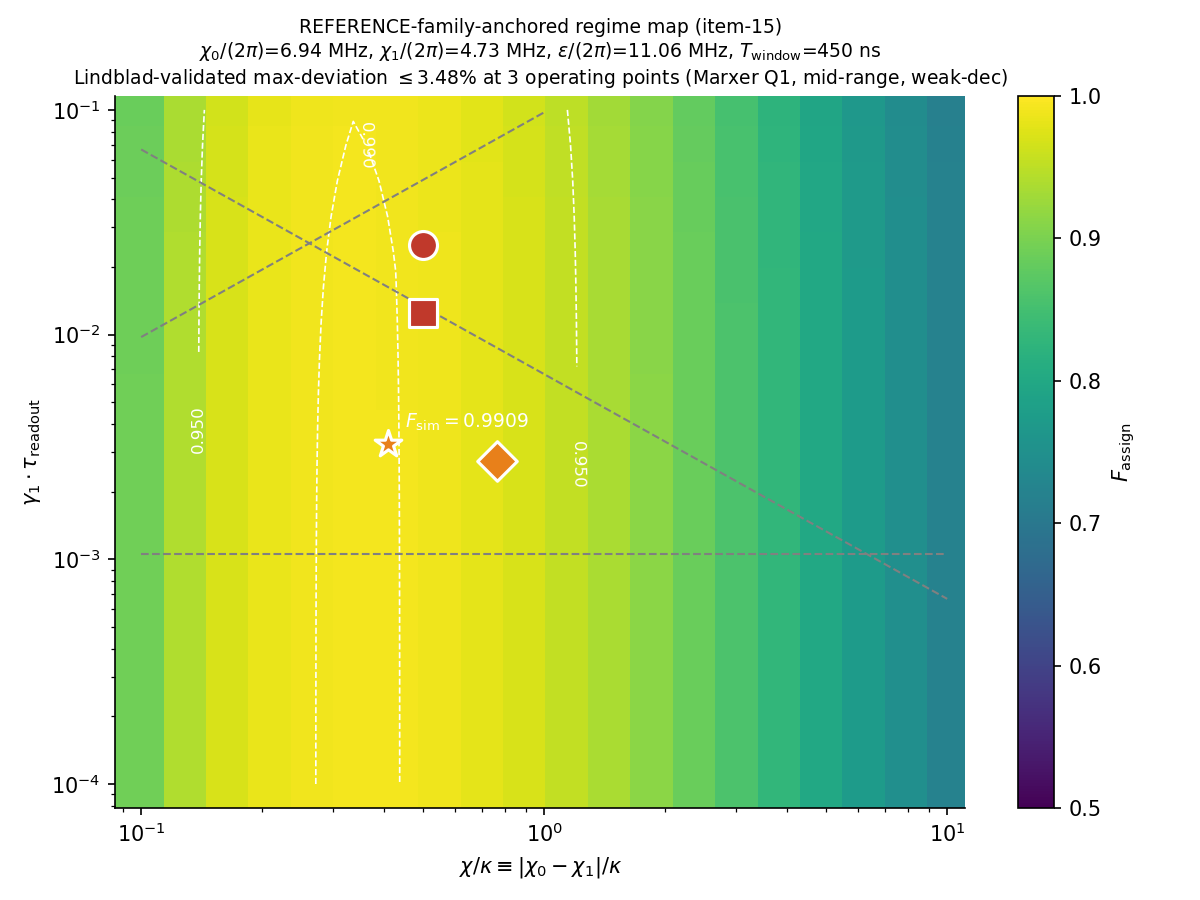
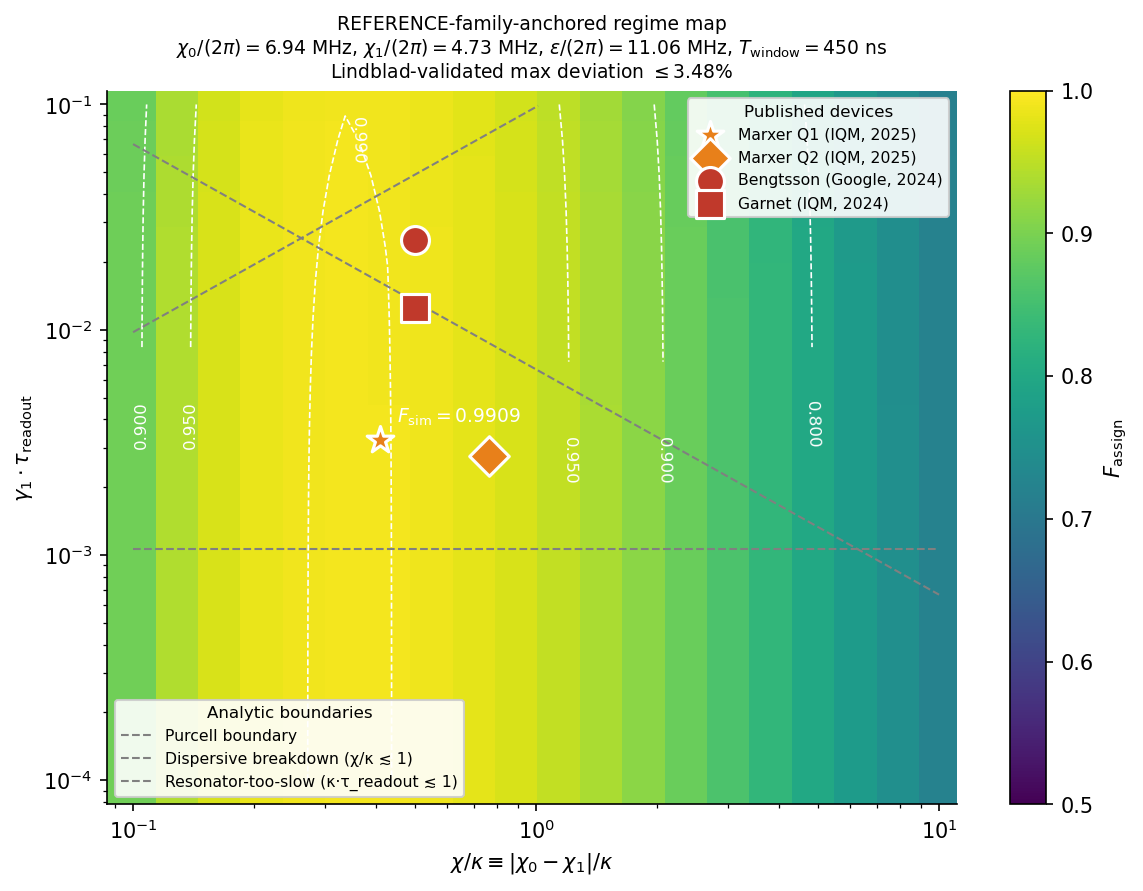
polish(stage06-m4): Figure 4 panels a/b/c external-reviewer feedback round
External reviewer critique surfaced 3 distinct presentation issues, one
per panel. All three fixed without changing underlying data or
computation — rendering layer only.

Panel (a) tornado — sign contrast + consistent annotation + label cleanup:
  - Pos/neg colors: two-shade cool palette (#4A90E2/#2E6DA4) read as one
    color to reviewers; swapped negative to orange-red (#D35400). χ_scale
    (the only negative bar-rendered parameter) now reads instantly as
    negative-sign rather than requiring a re-read of the numeric.
  - χ label "χ (via chi_scale, ±5%)" → "χ scale (±5%)" per reviewer.
  - Dropped fontweight="bold" on bar-rendered annotation so ε_0's "+0.050"
    label no longer visually dominates the other parameters' annotations.
  - Gray band retained (noise-consistent zone meaning); explanation moves
    to caption rather than in-plot text to keep panel uncluttered.

Panel (b) regime map — marker legend + boundary labels + tighter title:
  - Added two axis-level legends: "Published devices" (upper-right) maps
    marker shape → citation anchor (Marxer Q1/Q2, Bengtsson, Garnet);
    "Analytic boundaries" (lower-left) maps dashed-line family → physical
    meaning (Purcell / dispersive breakdown / resonator-too-slow). Reader
    no longer has to consult caption to identify markers or boundaries.
  - Title shortened: "REFERENCE-family-anchored regime map" on line 1;
    anchoring params (χ_0, χ_1, ε, T_window) and Lindblad-validated
[…]

diff --git a/06_Dispersive_Readout/scripts/fig4_panel_c_pareto.py b/06_Dispersive_Readout/scripts/fig4_panel_c_pareto.py
@@ -24,29 +24,75 @@ from dispersive_readout.optimization.pareto import (
 )
 
 
+# Three distinct styles (color + linestyle + marker) so variants are
+# legible at a glance — prior 3-greys palette blurred them together per
+# external reviewer feedback.
 _VARIANT_STYLES = {
-    "REFERENCE (≈ Marxer Q1)":                  {"color": "#2C3E50", "marker": "o"},
-    "T_1 = 40 µs (Garnet-like)":                 {"color": "#7F8C8D", "marker": "s"},
-    "T_1 = 20 µs, κ/2π = 6 MHz (Bengtsson-like)": {"color": "#566573", "marker": "^"},
+    "REFERENCE (≈ Marxer Q1)":                   {"color": "#1F3A5F", "marker": "o", "ls": "-"},
+    "T_1 = 40 µs (Garnet-like)":                  {"color": "#E8801A", "marker": "s", "ls": "--"},
+    "T_1 = 20 µs, κ/2π = 6 MHz (Bengtsson-like)": {"color": "#2E7D32", "marker": "^", "ls": "-."},
 }
+
+
+def _find_reference_knee(points: list) -> tuple[float, float] | None:
+    """Anchor annotation for the REFERENCE curve: the last τ at which F gains
+    ≥ 0.03 over the previous τ_max grid point. Past this knee, each further
+    doubling of τ buys only diminishing fidelity, which is the practical
+    "done" point for an operator budgeting readout time."""
+    if len(points) < 2:
+        return None
+    # Sort by tau_opt just in case input ordering isn't guaranteed.
+    pts = sorted(points, key=lambda p: p.tau_opt)
+    best_idx = 0
+    for i in range(1, len(pts)):
+        if pts[i].F_assign_opt - pts[i - 1].F_assign_opt >= 0.03:
+            best_idx = i
+    return (pts[best_idx].tau_opt * 1e9, pts[best_idx].F_assign_opt)
 
 
 def render_pareto(ax: plt.Axes, frontiers: dict[str, list]) -> None:
     for label, points in frontiers.items():
-        style = _VARIANT_STYLES.get(label, {"color": "black", "marker": "o"})
+        style = _VARIANT_STYLES.get(label, {"color": "black", "marker": "o", "ls": "-"})
         tau_ns = [p.tau_opt * 1e9 for p in points]
         F = np.array([p.F_assign_opt for p in points])
         sigma = np.array([p.F_assign_uncertainty for p in points])
 
         ax.fill_between(tau_ns, F - sigma, F + sigma, color=style["color"], alpha=0.15)
-        ax.plot(tau_ns, F, color=style["color"], linestyle="-", linewidth=1.2)
-        ax.scatter(tau_ns, F, marker=style["marker"], s=36, color=style["color"],
+        ax.plot(tau_ns, F, color=style["color"], linestyle=style["ls"], linewidth=1.4)
+        ax.scatter(tau_ns, F, marker=style["marker"], s=42, color=style["color"],
                    edgecolors="white", linewidths=0.8, label=label, zorder=5)
+
+    # Anchor annotation on the REFERENCE curve: show the practical knee
+    # point (last big-gain step). Makes one concrete operating point visible
+    # on the plot itself — pairs this panel to Module 2 / Module 4's
+    # REFERENCE working point without forcing the reader to scan the legend.
+    ref_points = frontiers.get("REFERENCE (≈ Marxer Q1)")
+    if ref_points:
+        knee = _find_reference_knee(ref_points)
+        if knee is not None:
+            tau_knee, F_knee = knee
+            ax.annotate(
+                rf"REFERENCE knee: $\tau={tau_knee:.0f}$ ns, $F={F_knee:.3f}$",
+                xy=(tau_knee, F_knee), xycoords="data",
+                xytext=(12, -28), textcoords="offset points",
+                fontsize=8.5, color="#1F3A5F",
+                arrowprops=dict(arrowstyle="->", color="#1F3A5F", lw=0.8),
+                bbox=dict(boxstyle="round,pad=0.3", facecolor="white",
+                          edgecolor="#1F3A5F", alpha=0.85),
+            )
 
     ax.set_xscale("log")
     ax.set_xlabel(r"Readout duration $\tau_{\rm opt}$ (ns, log)")
     ax.set_ylabel(r"$F_{\rm assign}$ at optimum")
-    ax.set_title("Speed–fidelity Pareto frontier")
+    # Subtitle names the objective so an external reader knows what the
+    # frontier is a frontier OF.
+    ax.set_title(
+        "Speed–fidelity Pareto frontier\n"
+        r"maximize $F_{\rm assign}$ over $(\varepsilon_0, \tau)$ subject to "
+        r"$\tau \leq \tau_{\rm max}$; shaded = analytic binomial SE "
+        r"at $n_{\rm shots}=10^4$",
+        fontsize=10,
+    )
     ax.legend(loc="lower right", fontsize=9)
     ax.spines["top"].set_visible(False); ax.spines["right"].set_visible(False)
 
@@ -122,27 +168,52 @@ def _collect_frontiers_serial() -> dict[str, list[ParetoPoint]]:
     return frontiers
 
 
+def _load_frontiers_from_yaml(path: Path) -> dict[str, list[ParetoPoint]]:
+    """Re-hydrate ParetoPoint records from a previously-persisted yaml.
+    Skips the expensive Pareto re-computation when only the rendering
+    layer (styles, annotations, title) changed."""
+    with open(path) as f:
+        raw = yaml.safe_load(f)
+    out: dict[str, list[ParetoPoint]] = {}
+    for label, records in raw.items():
+        out[label] = [ParetoPoint(**r) for r in records]
+    return out
+
+
 def main() -> None:
-    use_modal = os.environ.get("USE_MODAL", "0") == "1"
-    if use_modal:
+    use_modal  = os.environ.get("USE_MODAL",  "0") == "1"
+    use_cached = os.environ.get("USE_CACHED", "0") == "1"
+
+    out_dir = Path("06_Dispersive_Readout/figures")
+    yaml_path = out_dir / "fig4_panel_c_data.yaml"
+
+    if use_cached:
+        if not yaml_path.exists():
+            raise FileNotFoundError(
+                f"USE_CACHED=1 but {yaml_path} does not exist; "
+                "run once without USE_CACHED to generate the Pareto data."
+            )
+        frontiers = _load_frontiers_from_yaml(yaml_path)
+    elif use_modal:
         frontiers = _collect_frontiers_modal()
     else:
         frontiers = _collect_frontiers_serial()
 
-    # Persist YAML (skip empty variants — would produce malformed plot)
-    out_dir = Path("06_Dispersive_Readout/figures")
+    # Persist YAML on re-compute paths (skip on cache-read since we just
+    # loaded from it; rewriting with identical content is noise)
     out_dir.mkdir(parents=True, exist_ok=True)
-    serializable = {
-        label: [p.model_dump() for p in points]
-        for label, points in frontiers.items() if points
-    }
-    with open(out_dir / "fig4_panel_c_data.yaml", "w") as f:
-        yaml.safe_dump(serializable, f, sort_keys=False)
+    if not use_cached:
+        serializable = {
+            label: [p.model_dump() for p in points]
+            for label, points in frontiers.items() if points
+        }
+        with open(yaml_path, "w") as f:
+            yaml.safe_dump(serializable, f, sort_keys=False)
 
     fig, ax = plt.subplots(figsize=(8, 5.5))
     render_pareto(ax, {k: v for k, v in frontiers.items() if v})
     fig.tight_layout()
-    fig.savefig(out_dir / "fig4_panel_c_pareto.png", dpi=150)
+    fig.savefig(out_dir / "fig4_panel_c_pareto.png", dpi=150, bbox_inches="tight")
     print(f"Wrote {out_dir / 'fig4_panel_c_pareto.png'}")
 
 

diff --git a/06_Dispersive_Readout/scripts/fig4_panel_b_regime.py b/06_Dispersive_Readout/scripts/fig4_panel_b_regime.py
@@ -34,6 +34,14 @@ from dispersive_readout.optimization.regime_map import (
 
 _MARKER_COLOR_MAP = {"warm_orange": "#E8801A", "red": "#C0392B"}
 
+# Boundary-line labels for the legend. Each function is called once inside
+# render_regime_map; the label string matches the caption phrasing.
+_BOUNDARY_LABELS = {
+    "purcell":   "Purcell boundary",
+    "breakdown": "Dispersive breakdown (χ/κ ≲ 1)",
+    "slow":      "Resonator-too-slow (κ·τ_readout ≲ 1)",
+}
+
 
 def render_regime_map(ax: plt.Axes, validation: dict, grid: dict) -> None:
     x_axis = grid["chi_over_kappa_axis"]
@@ -44,30 +52,39 @@ def render_regime_map(ax: plt.Axes, validation: dict, grid: dict) -> None:
     pcm = ax.pcolormesh(X, Y, F, cmap="viridis", shading="auto", vmin=0.5, vmax=1.0)
     plt.colorbar(pcm, ax=ax, label=r"$F_{\rm assign}$")
 
+    # Denser contour set reveals more structure in the 0.8-1.0 regime where
+    # most of the interesting physics sits; 0.5/0.7 anchor the low-F corners.
     cs = ax.contour(
-        X, Y, F, levels=[0.95, 0.99, 0.999],
+        X, Y, F, levels=[0.7, 0.8, 0.9, 0.95, 0.99, 0.999],
         colors="white", linestyles="dashed", linewidths=0.8,
     )
     ax.clabel(cs, inline=True, fontsize=8)
 
-    # Analytic boundaries (grey dashed)
+    # Analytic boundaries — each labeled so the legend maps line to meaning.
     x_fine = np.logspace(np.log10(x_axis[0]), np.log10(x_axis[-1]), 200)
-    for y_boundary in (
-        purcell_boundary(x_fine),
-        dispersive_breakdown_boundary(x_fine),
-        resonator_too_slow_boundary(x_fine),
+    for bkey, yfn in (
+        ("purcell",   purcell_boundary),
+        ("breakdown", dispersive_breakdown_boundary),
+        ("slow",      resonator_too_slow_boundary),
     ):
+        y_boundary = yfn(x_fine)
         mask = (y_boundary >= y_axis[0]) & (y_boundary <= y_axis[-1])
-        ax.plot(x_fine[mask], y_boundary[mask],
-                color="grey", linestyle="--", linewidth=1.0)
+        ax.plot(
+            x_fine[mask], y_boundary[mask],
+            color="grey", linestyle="--", linewidth=1.0,
+            label=_BOUNDARY_LABELS[bkey],
+        )
 
-    # 4 device markers
+    # 4 device markers, each labeled by its publication anchor so the legend
+    # pairs marker → device. Estimated points (Bengtsson, Garnet) keep their
+    # red-family color per Q6 encoding; primary published points (Marxer
+    # Q1/Q2) stay in warm_orange.
     for p in PUBLISHED_DEVICE_POINTS:
         color = _MARKER_COLOR_MAP[p.marker_color]
         ax.scatter(
             [p.chi_over_kappa], [p.gamma_1_tau],
             marker=p.marker, s=180, c=color, edgecolors="white", linewidths=1.5,
-            zorder=10,
+            zorder=10, label=p.label,
         )
         if "Marxer Q1" in p.label and p.reported_F_assign is not None:
             q1_sim = next(
@@ -85,18 +102,39 @@ def render_regime_map(ax: plt.Axes, validation: dict, grid: dict) -> None:
     ax.set_xlabel(r"$\chi/\kappa \equiv |\chi_0 - \chi_1|/\kappa$")
     ax.set_ylabel(r"$\gamma_1 \cdot \tau_{\rm readout}$")
 
+    # Legend: markers (devices) on upper-right, lines (boundaries) on lower-
+    # left to avoid overlap with the high-F ridge and the low-F corners.
+    handles, labels = ax.get_legend_handles_labels()
+    device_idx = [i for i, lbl in enumerate(labels) if lbl not in _BOUNDARY_LABELS.values()]
+    boundary_idx = [i for i, lbl in enumerate(labels) if lbl in _BOUNDARY_LABELS.values()]
+    if device_idx:
+        leg_dev = ax.legend(
+            [handles[i] for i in device_idx], [labels[i] for i in device_idx],
+            loc="upper right", fontsize=7.5, framealpha=0.9,
+            title="Published devices", title_fontsize=8,
+        )
+        ax.add_artist(leg_dev)
+    if boundary_idx:
+        ax.legend(
+            [handles[i] for i in boundary_idx], [labels[i] for i in boundary_idx],
+            loc="lower left", fontsize=7.5, framealpha=0.9,
+            title="Analytic boundaries", title_fontsize=8,
+        )
+
     chi_0, chi_1 = grid["chi_per_level_anchor"]
     eps = grid["epsilon"]
     Tw = grid["T_window"]
     max_dev_pct = validation["max_deviation_fractional"] * 100.0
+    # Short title + two compact subtitle lines. Detail (validation summary)
+    # keeps a visible anchor on the figure itself; anchoring parameters on
+    # line 2 stay readable within the axis width.
     ax.set_title(
-        "REFERENCE-family-anchored regime map (item-15)\n"
-        rf"$\chi_0/(2\pi)$={chi_0/(2*np.pi)/1e6:.2f} MHz, "
-        rf"$\chi_1/(2\pi)$={chi_1/(2*np.pi)/1e6:.2f} MHz, "
-        rf"$\varepsilon/(2\pi)$={eps/(2*np.pi)/1e6:.2f} MHz, "
-        rf"$T_{{\rm window}}$={Tw*1e9:.0f} ns" "\n"
-        rf"Lindblad-validated max-deviation $\leq{max_dev_pct:.2f}\%$ "
-        "at 3 operating points (Marxer Q1, mid-range, weak-dec)",
+        "REFERENCE-family-anchored regime map\n"
+        rf"$\chi_0/(2\pi)=${chi_0/(2*np.pi)/1e6:.2f} MHz, "
+        rf"$\chi_1/(2\pi)=${chi_1/(2*np.pi)/1e6:.2f} MHz, "
+        rf"$\varepsilon/(2\pi)=${eps/(2*np.pi)/1e6:.2f} MHz, "
+        rf"$T_{{\rm window}}=${Tw*1e9:.0f} ns" "\n"
+        rf"Lindblad-validated max deviation $\leq{max_dev_pct:.2f}\%$",
         fontsize=9,
     )
     ax.spines["top"].set_visible(False); ax.spines["right"].set_visible(False)
@@ -120,7 +158,7 @@ def main() -> None:
     fig, ax = plt.subplots(figsize=(8, 6))
     render_regime_map(ax, validation, grid)
     fig.tight_layout()
-    fig.savefig(out_dir / "fig4_panel_b_regime.png", dpi=150)
+    fig.savefig(out_dir / "fig4_panel_b_regime.png", dpi=150, bbox_inches="tight")
     print(f"Wrote {out_dir / 'fig4_panel_b_regime.png'}")
     print(f"Wrote {out_dir / 'fig4_panel_b_validation.yaml'}")
 

diff --git a/06_Dispersive_Readout/scripts/fig4_panel_a_tornado.py b/06_Dispersive_Readout/scripts/fig4_panel_a_tornado.py
@@ -40,7 +40,7 @@ from dispersive_readout.optimization.sensitivity import (
 
 
 _DISPLAY_LABELS: dict[str, str] = {
-    "chi_scale": r"$\chi$ (via chi_scale, $\pm 5\%$)",
+    "chi_scale": r"$\chi$ scale ($\pm 5\%$)",
     "kappa":     r"$\kappa$ ($\pm 5\%$)",
     "gamma_1":   r"$T_1$ (via $\gamma_1$, $\pm 5\%$)",
     "gamma_phi": r"$T_\varphi$ (via $\gamma_\varphi$, $\pm 5\%$)",
@@ -79,15 +79,17 @@ def render_tornado(
     ys = np.arange(len(ranked))[::-1]
     labels = [_DISPLAY_LABELS[r.parameter] for r in ranked]
 
-    # Cool palette — two shades for positive / negative sign
-    cool_pos = "#4A90E2"
-    cool_neg = "#2E6DA4"
+    # Sign-contrast palette: cool blue for positive (helps F), warm orange-
+    # red for negative (hurts F). Two distinct hues make sign legible at a
+    # glance — prior two-shade cool palette read as one color to readers.
+    color_pos = "#4A90E2"
+    color_neg = "#D35400"
 
     for y, r in zip(ys, ranked):
         S = r.sensitivity
         sigma = r.sensitivity_uncertainty
         is_noise_like = r.noise_consistent_with_zero
-        color = cool_pos if S >= 0 else cool_neg
+        color = color_pos if S >= 0 else color_neg
         if is_noise_like:
             # Point-with-errorbar rendering for near-zero parameters
             ax.errorbar(
@@ -102,7 +104,7 @@ def render_tornado(
             ax.text(
                 label_x, y,
                 f"{S:+.3f} ± {sigma:.3f}",
-                va="center", ha="left", fontsize=8, color="dimgray",
+                va="center", ha="left", fontsize=9, color="dimgray",
             )
         else:
             # Filled bar for bar-rendered parameters (|S| >= threshold)
@@ -110,12 +112,14 @@ def render_tornado(
                 [y], [S], color=color, edgecolor="black", linewidth=0.5,
                 alpha=0.9, zorder=3,
             )
-            # Numeric annotation just outside the bar end
+            # Numeric annotation just outside the bar end — matched in
+            # weight/color/size to the point-with-errorbar labels so no
+            # single parameter (ε_0) visually dominates the annotation layer.
             offset = 0.008 * (1 if S >= 0 else -1)
             ha = "left" if S >= 0 else "right"
             ax.text(
                 S + offset, y, f"{S:+.3f}", va="center", ha=ha,
-                fontsize=9, fontweight="bold",
+                fontsize=9, color="dimgray",
             )
 
     ax.set_yticks(ys)
@@ -133,8 +137,10 @@ def render_tornado(
     ax.spines["right"].set_visible(False)
 
     # Shade the noise-consistent band symmetrically around x=0 for visual
-    # context — readers can tell at a glance which parameters register as
-    # bar-rendered vs noise-consistent.
+    # context — bar-rendered parameters sit outside the band, noise-
+    # consistent parameters sit inside it and render as point-with-errorbar
+    # per the Q1 amendment. Band's role is explained in the figure caption
+    # to keep the plot itself uncluttered.
     ax.axvspan(
         -SENSITIVITY_RENDER_BAR_THRESHOLD,
         SENSITIVITY_RENDER_BAR_THRESHOLD,
